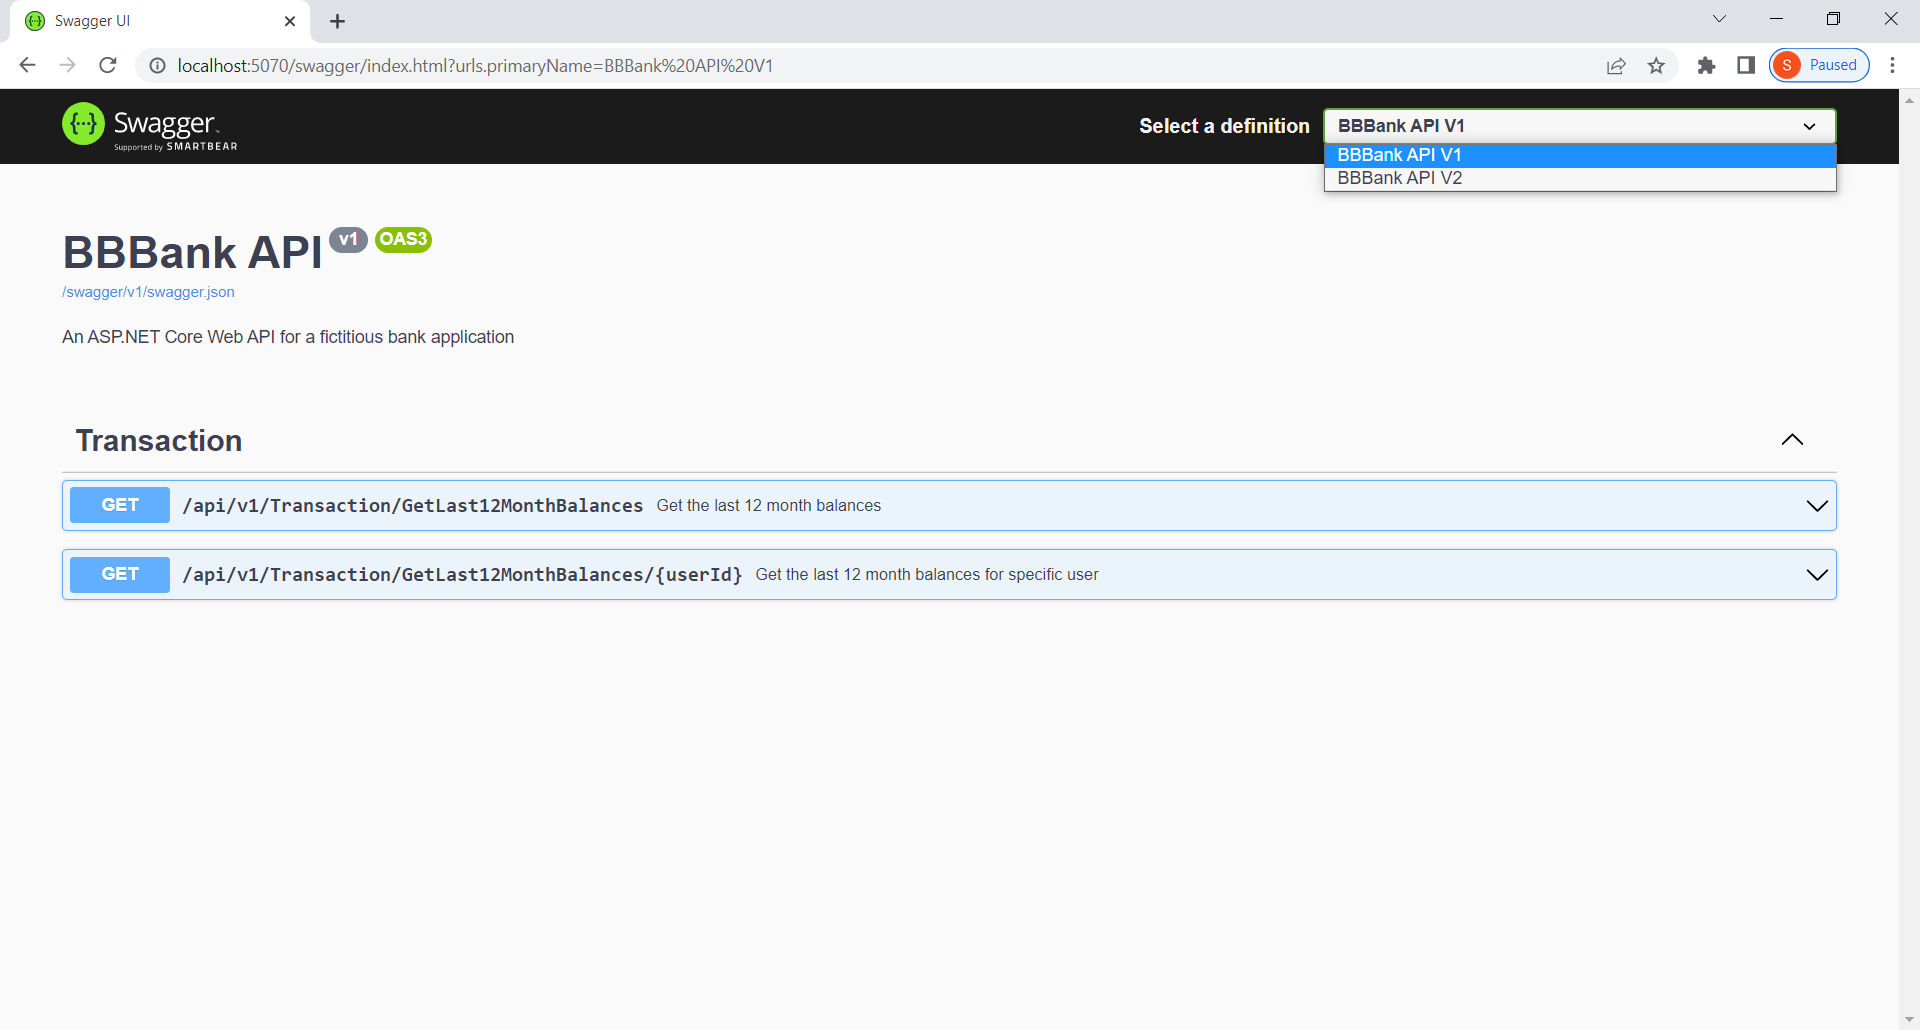
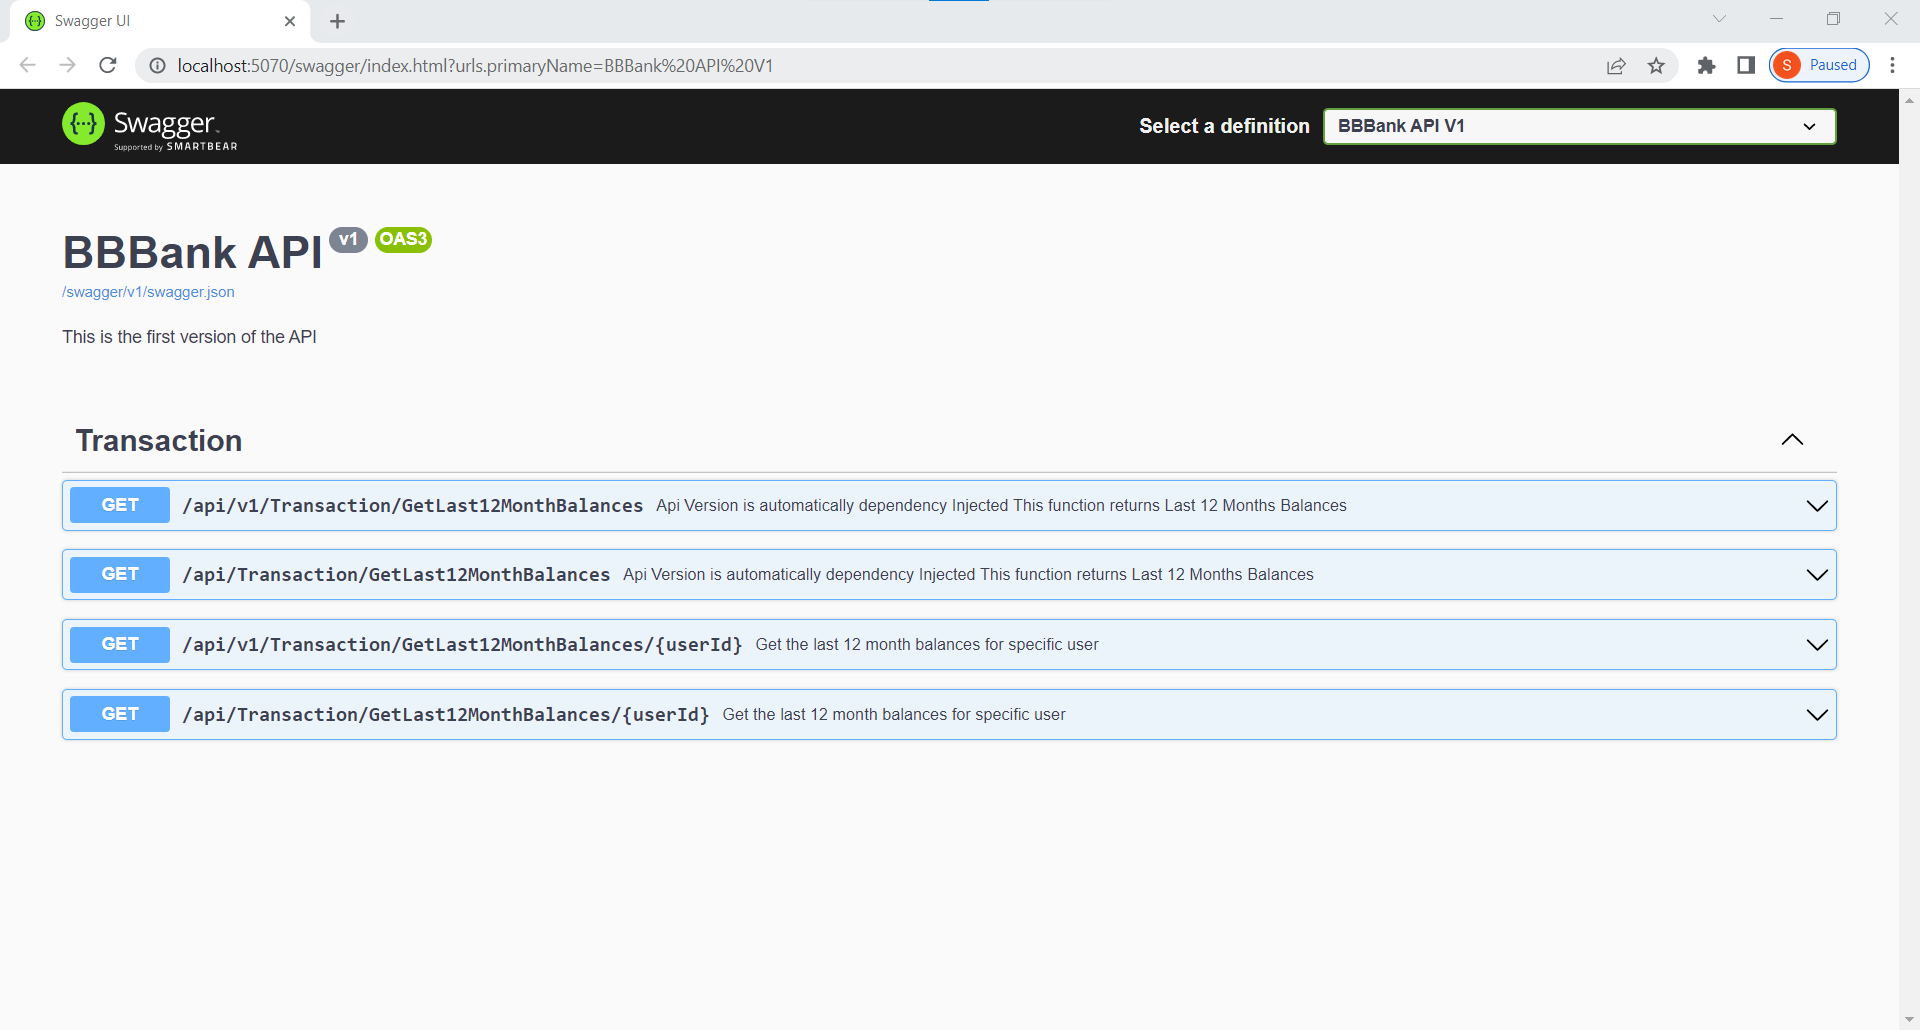
readme review

diff --git a/README.md b/README.md
@@ -152,9 +152,9 @@ builder.Services.AddSwaggerGen(options =>
     });
 
 
-// using System.Reflection;
-  var xmlFilename = $"{Assembly.GetExecutingAssembly().GetName().Name}.xml";
-  options.IncludeXmlComments(Path.Combine(AppContext.BaseDirectory, xmlFilename));
+    // this code is required to add code comments in swagger.
+    options.IncludeXmlComments(Path.Combine(AppContext.BaseDirectory,
+    $"{Assembly.GetExecutingAssembly().GetName().Name}.xml"));
 
 });
 ``` 
@@ -254,14 +254,17 @@ Add The APIVersioning service to the **IServiceCollection** in `program.cs`. Thi
 ```cs
 builder.Services.AddApiVersioning(setup =>
 {
-    setup.DefaultApiVersion = new ApiVersion(1,0);
+    setup.DefaultApiVersion = new ApiVersion(1, 0);
     setup.AssumeDefaultVersionWhenUnspecified = true;
     setup.ReportApiVersions = true;
 });
-
 builder.Services.AddVersionedApiExplorer(setup =>
 {
+    // add the versioned api explorer, which also adds IApiVersionDescriptionProvider service
+    // note: the specified format code will format the version as "'v'major[.minor][-status]"
     setup.GroupNameFormat = "'v'VVV";
+    // note: this option is only necessary when versioning by url segment. the SubstitutionFormat
+    // can also be used to control the format of the API version in route templates
     setup.SubstituteApiVersionInUrl = true;
 });
 ```
@@ -272,59 +275,17 @@ The AssumeDefaultVersionWhenUnspecified lets the router fallback to the default 
 
  ### 5.2 Decorate API Controller
 
-First create two folders **V1** and **V2** and copy the existing controller **TransactionController** and put it in both folders then delete the existing controller. Change the namespaces of both Controller as.
-```
-namespace BBBankAPI.Controllers.V1
+Decorate the API Controller with the version numbers that it’d be called when a request is made for that specific version.
 
-namespace BBBankAPI.Controllers.V2
-```
+Now **TransactionController** would be decorated as below, this will enable transaction controller to work for version **v1** as well as for **v2**. if no version mentioned in URL segment then default version **v1** would be called.
 
-In *V2* folder, controller method **GetLast12MonthBalances()** we would return the json result instead of returning model.
-
-Modify **GetLast12MonthBalances()** as below .
 ```
-public async Task<JsonResult> GetLast12MonthBalances()
+namespace BBBankAPI.Controllers
 {
-    try
-    {
-        var res = await _transactionService.GetLast12MonthBalances(null);
-
-        return new JsonResult(JsonSerializer.Serialize(res));
-    }
-    catch (Exception ex)
-    {
-        return new JsonResult(ex);
-    }
-}
-
-```
-
-Decorate the API Controllers with the version numbers that it’d be called when a request is made for that specific version.
-
-Now **TransactionController** in *V1* folder would be decorated as
-
-```
-namespace BBBankAPI.Controllers.V1
-{
-    [ApiController]
     [ApiVersion("1.0")]
-    [Route("api/v{version:apiVersion}/[controller]")]
-
-    public class TransactionController : ControllerBase
-	{
-		// controller operations
-	}
-}
-```
-
-and **TransactionController** in *V2* folder would be decorated as with version **2.0**
-
-```
-namespace BBBankAPI.Controllers.V2
-{
-    [ApiController]
     [ApiVersion("2.0")]
     [Route("api/v{version:apiVersion}/[controller]")]
+    [Route("api/[controller]")]
 
     public class TransactionController : ControllerBase
 	{
@@ -332,42 +293,148 @@ namespace BBBankAPI.Controllers.V2
 	}
 }
 ```
+ ### 5.2 Get version information
+
+Now we would use api version in **TransactionService** and based on version we will calculate **average** for *TransactionController* action **GetLast12MonthBalances** for *v2* and will return **average** with value *-1* for *v1*
+
+Install following nuget packages using package manager console , make sure to select *Services* project in package manager console:
+
+```cs
+Install-Package Microsoft.AspNetCore.Http
+
+Install-Package Microsoft.AspNetCore.Routing
+```
+
+Now add The **IHttpContextAccessor** service to the **IServiceCollection** in `program.cs`. This will help to detect api version.
+
+```cs
+builder.Services.AddSingleton<IHttpContextAccessor, HttpContextAccessor>();
+```
+
+ ### 5.3 Version usage
+
+ Now we will get api version in **TransactionService** method **GetLast12MonthBalances**, for this dependency inject **IHttpContextAccessor** in *TransactionService* constructor.
+
+```cs
+public TransactionService(BBBankContext BBBankContext, IHttpContextAccessor httpContextAccessor)
+{
+    _bbBankContext = BBBankContext;
+    _httpContextAccessor = httpContextAccessor;
+}
+```
+
+Modify **LineGraphData** model in **Entities** project and add new **Average** property .
+
+```cs
+ public class LineGraphData
+{
+    public decimal TotalBalance { get; set; }
+    public ICollection<string> Labels { get; set; }
+    public ICollection<decimal> Figures { get; set; }
+    public LineGraphData()
+    {
+        Labels = new List<string>();
+        Figures = new List<decimal>();
+    }
+
+    public decimal Average { get; set; } = -1;
+}
+
+```
 
 
- ### 5.3 Map API version
+In **TransactionService** method **GetLast12MonthBalances** get api information and based on information add the **average** in response .Now method would be as below, this line *_httpContextAccessor.HttpContext.GetRouteData().Values;* would give us api version and based on version we are adding **average**
 
-Modify step 4.2 code as below .
+```cs
+        public async Task<LineGraphData> GetLast12MonthBalances(string? userId)
+        {
+            // Object to contain the line graph data
+            var lineGraphData = new LineGraphData();
+
+            // Object to contain the transactions data
+            var allTransactions = new List<Transaction>();
+            if (userId == null)
+            {
+                // if account id is NULL then fetch all transactions
+                allTransactions = _bbBankContext.Transactions.ToList();
+            }
+            else
+            {
+                // if account id is not NULL then fetch all transactions for specific account id
+                allTransactions = _bbBankContext.Transactions.Where(x => x.Account.User.Id == userId).ToList();
+            }
+            if (allTransactions.Count() > 0)
+            {
+                // Calculate the total balance till now
+                var totalBalance = allTransactions.Sum(x => x.TransactionAmount);
+                lineGraphData.TotalBalance = totalBalance;
+
+                decimal lastMonthTotal = 0;
+
+                // looping through last three months starting from the current
+                for (int i = 12; i > 0; i--)
+                {
+                    // Calculate the running total balance
+                    var runningTotal = allTransactions.Where(x => x.TransactionDate >= DateTime.Now.AddMonths(-i) &&
+                       x.TransactionDate < DateTime.Now.AddMonths(-i + 1)).Sum(y => y.TransactionAmount) + lastMonthTotal;
+
+                    // adding labels to line graph data for current month and year
+                    lineGraphData.Labels.Add(DateTime.Now.AddMonths(-i + 1).ToString("MMM yyyy"));
+
+                    // adding data to line graph data for current month and year
+                    lineGraphData.Figures.Add(runningTotal);
+
+                    // saving the running total for this month
+                    lastMonthTotal = runningTotal;
+                }
+
+
+                var routeValues = _httpContextAccessor.HttpContext.GetRouteData().Values;
+                if (routeValues["version"] != null && routeValues["version"].ToString() == "2")
+                {
+                    lineGraphData.Average = Math.Round(lineGraphData.Figures.Sum() / lineGraphData.Figures.Count(),2);
+                }
+            }
+            // returning the line graph data object
+            return lineGraphData;
+        }
+```
+
+ ### 5.4 Map API version for swagger UI
+
+Modify step 4.2 code as below to get the api versions comments information for both versions in **swagger** UI .
 
 ```csharp
 builder.Services.AddSwaggerGen(options =>
 {
+
     options.SwaggerDoc("v1", new OpenApiInfo
     {
         Version = "v1",
         Title = "BBBank API",
-        Description = "An ASP.NET Core Web API for a fictitious bank application",
-
+        Description = "This is the first version of the API",
     });
-
     options.SwaggerDoc("v2", new OpenApiInfo
     {
         Version = "v2",
         Title = "BBBank API",
-        Description = "An ASP.NET Core Web API for a fictitious bank application",
+        Description = "This is the Second version with some extra properties returned.",
 
     });
-// using System.Reflection;
-  var xmlFilename = $"{Assembly.GetExecutingAssembly().GetName().Name}.xml";
-  options.IncludeXmlComments(Path.Combine(AppContext.BaseDirectory, xmlFilename));
+
+    // this code is required to add code comments in swagger.
+    options.IncludeXmlComments(Path.Combine(AppContext.BaseDirectory,
+    $"{Assembly.GetExecutingAssembly().GetName().Name}.xml"));
 
 });
 ``` 
 
-Now to map API version for swagger UI modify **UseSwaggerUI** added in step 2
+Now to build a swagger endpoint for each API version, modify **UseSwaggerUI** added in step 2,this will add both versions in swagger UI top right dropdown.
 
 ```cs
 app.UseSwaggerUI(c =>
 {
+    // build a swagger endpoint for each API version
     c.SwaggerEndpoint($"/swagger/v1/swagger.json", "BBBank API V1");
     c.SwaggerEndpoint($"/swagger/v2/swagger.json", "BBBank API V2");
 });
@@ -382,10 +449,10 @@ Now you should be able to see both versions in top right dropdown of swagger UI
 
 ![api-versions](/readme_assets/api-versions.png)
 
-Now access *V1* **TransactionController** method using swagger or api url http://localhost:5070/api/v1/Transaction/GetLast12MonthBalances
+Now access **TransactionController** action **GetLast12MonthBalances** for **v1** version using swagger or api url http://localhost:5070/api/v1/Transaction/GetLast12MonthBalances and you will notice **average** is added with *-1* mean no value calculated.
 
 ![v1-result](/readme_assets/v1-result.png)
 
-Now access *V2* **TransactionController** method using swagger or api url http://localhost:5070/api/v2/Transaction/GetLast12MonthBalances
+Now access **TransactionController** action **GetLast12MonthBalances** for **v2** version using swagger or api url http://localhost:5070/api/v2/Transaction/GetLast12MonthBalances and you will notice **average** is being calculated.
 
 ![v1-result](/readme_assets/v2-result.png)
